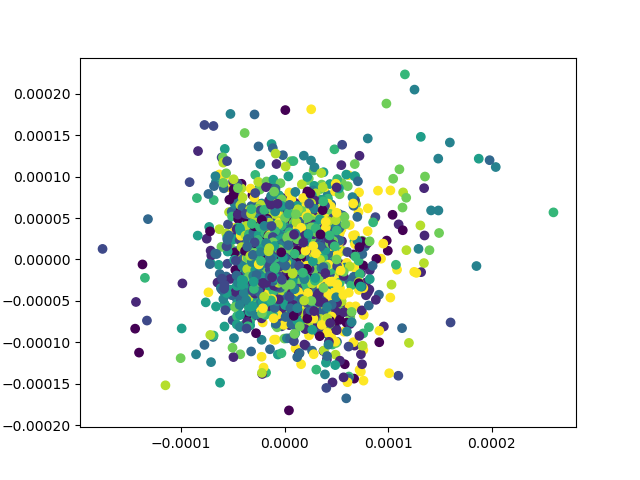
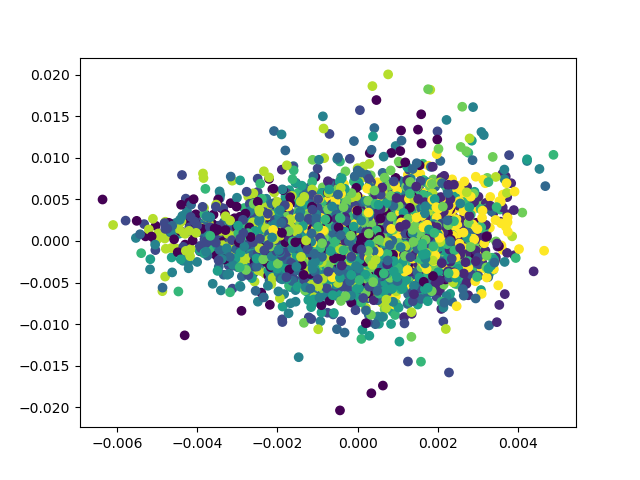
Adding correct parameter for gaussian kernel and adding images for gaussian kernel instead of the ones for linear kernels. Modified gaussian kernel.

diff --git a/src/visualize_pca.py b/src/visualize_pca.py
@@ -5,15 +5,16 @@ from util.utils import read_data
 from util.kernels import RBF, Linear
 from methods.kernel_pca import Kernel_PCA
 from sklearn.decomposition import KernelPCA
+from sklearn.metrics.pairwise import rbf_kernel
 import numpy as np
 import os
 
 
 def main():
     save_path = "results/unsupervised_learning"
-    kernel_fn = Linear().kernel
-    # kernel_fn = RBF(sigma=1./X.shape[1]).kernel
     Xtr_, Ytr, Xte_ = read_data()
+    # kernel_fn = Linear().kernel
+    kernel_fn = RBF(sigma=40).kernel
 
     # Normalize first
     mean = np.mean(Xtr_, axis=0)

diff --git a/src/util/kernels.py b/src/util/kernels.py
@@ -9,7 +9,8 @@ class RBF :
 
     def kernel(self, X, Y) :
         ## Input vectors X and Y of shape Nxd and Mxd
-        return np.exp(-1/(2*self.sigma)*(-2*X@Y.T + np.sum(X**2, axis=1).reshape(-1,1) + np.sum(Y**2, axis=1).reshape(1,-1)))
+        squared_norm = np.expand_dims(np.sum(X**2,axis=1),axis=1) + np.expand_dims(np.sum(Y**2,axis=1),axis=0)-2*np.einsum('ni,mi->nm',X,Y)
+        return np.exp(-0.5*squared_norm/self.sigma**2)
 
 
 class Linear :
